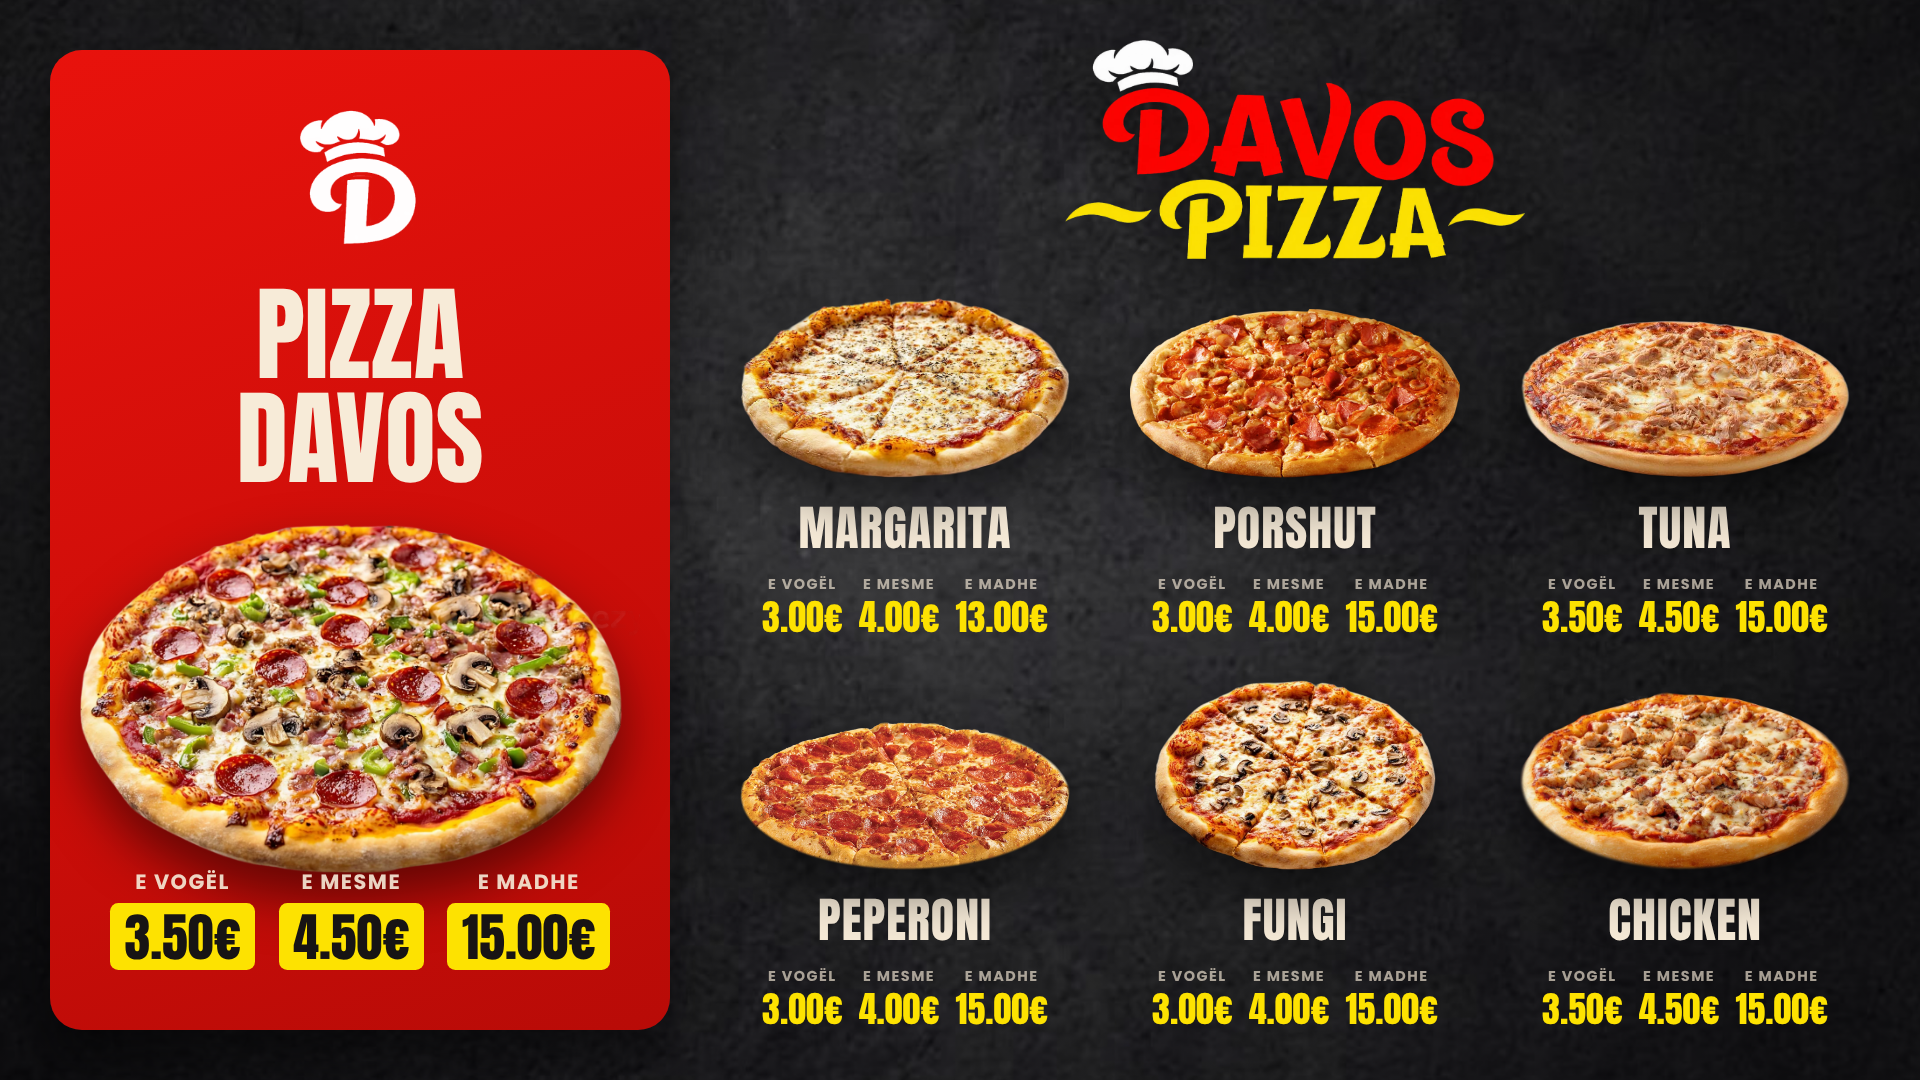
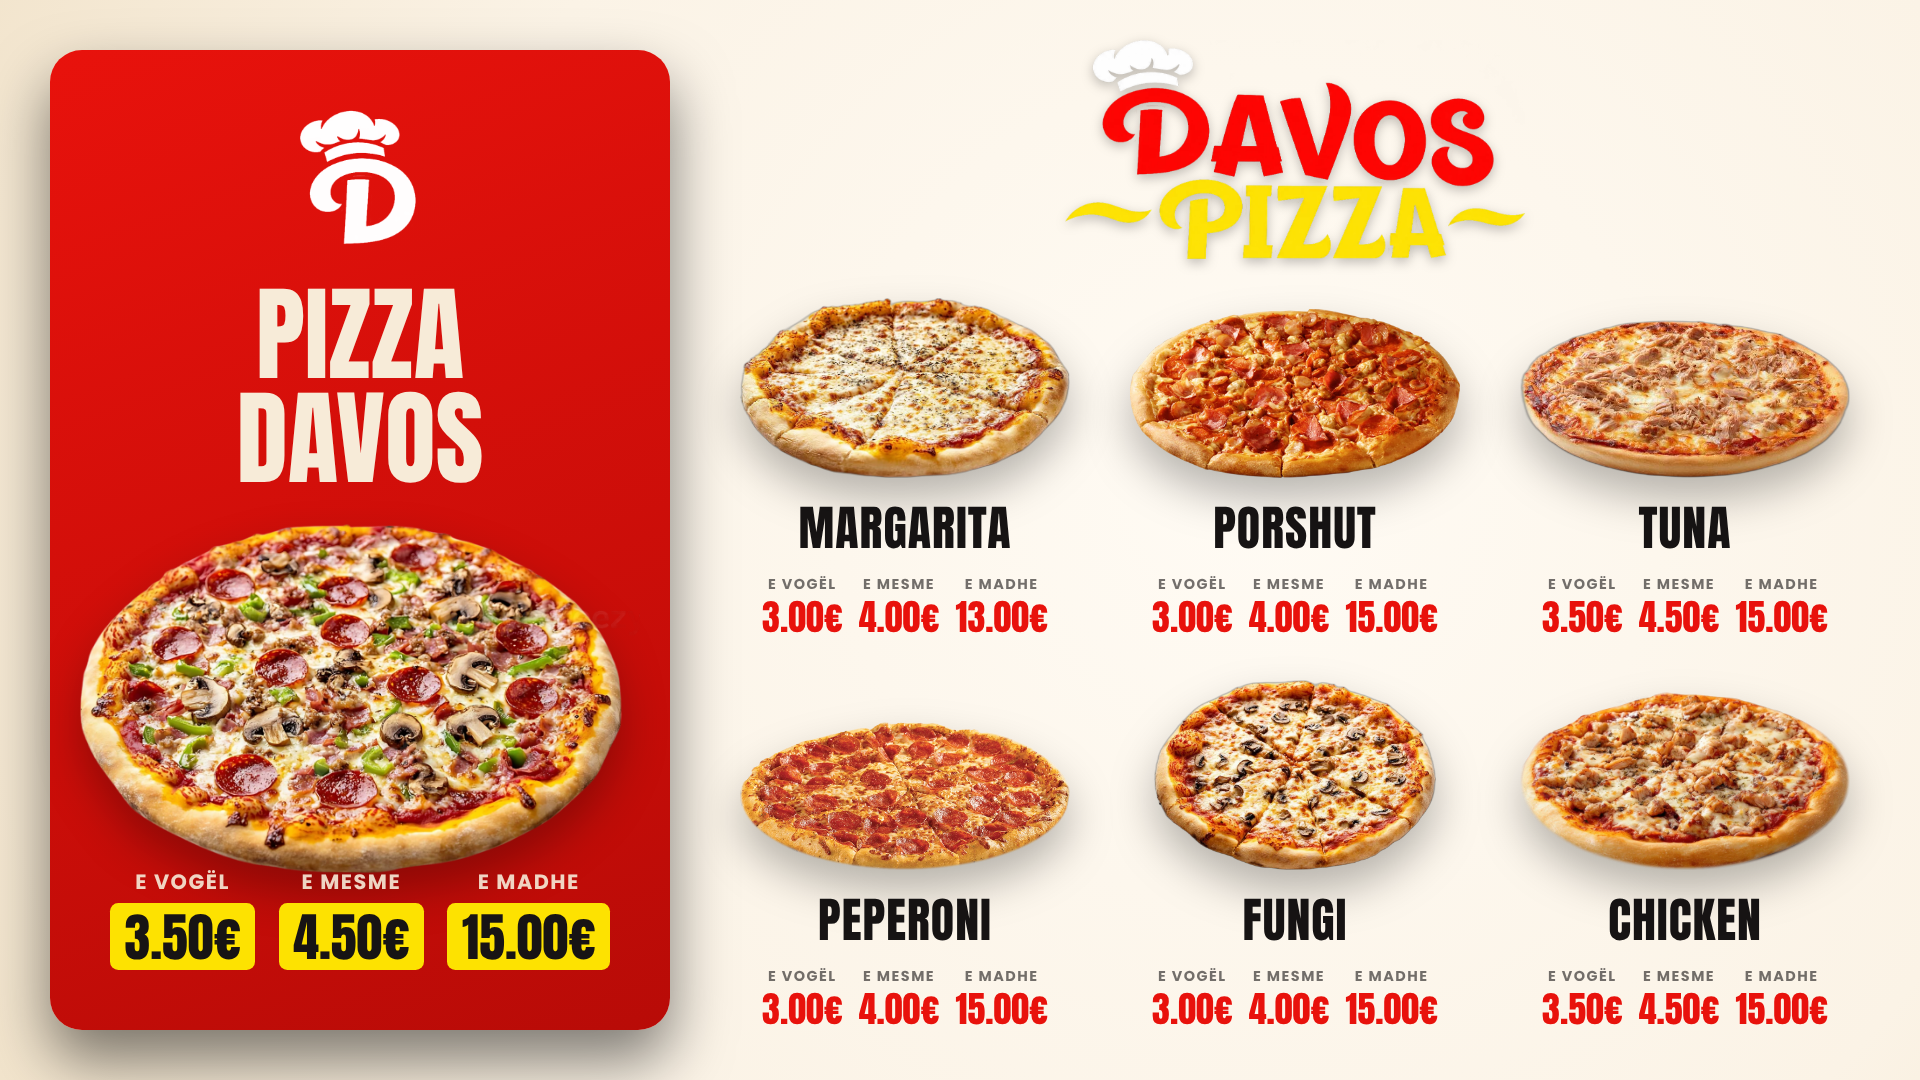
Pizza menu: cream background
Claude-Session: https://claude.ai/code/session_01Xb7jPxrPq6UpPr8fj4vFP7

diff --git a/videos/davos-burgers/src/PizzaMenu.tsx b/videos/davos-burgers/src/PizzaMenu.tsx
@@ -1,10 +1,11 @@
 import React from "react";
 import { AbsoluteFill, Img, staticFile } from "remotion";
 import { COLORS, CURRENCY, PIZZAS, PizzaId, SIZE_LABELS } from "./config";
-import { anton, poppins, WallBg } from "./lib";
+import { anton, poppins } from "./lib";
 
 const pizzaSrc = (id: PizzaId) => staticFile(`pizza-${id}.png`);
-const shadow = "drop-shadow(0 26px 26px rgba(0,0,0,0.5))";
+const shadow = "drop-shadow(0 22px 22px rgba(0,0,0,0.28))";
+const CREAM_BG = "#FBF3E6";
 
 const PriceRow: React.FC<{ prices: string[]; size: number; onRed?: boolean }> = ({ prices, size, onRed }) => (
   <div style={{ display: "flex", justifyContent: "center", gap: size * 0.45 }}>
@@ -16,8 +17,8 @@ const PriceRow: React.FC<{ prices: string[]; size: number; onRed?: boolean }> = 
             fontWeight: 700,
             fontSize: size * 0.4,
             letterSpacing: 1.5,
-            color: COLORS.cream,
-            opacity: onRed ? 0.9 : 0.65,
+            color: onRed ? COLORS.cream : COLORS.dark,
+            opacity: onRed ? 0.9 : 0.6,
             marginBottom: size * 0.12,
           }}
         >
@@ -28,7 +29,7 @@ const PriceRow: React.FC<{ prices: string[]; size: number; onRed?: boolean }> = 
             fontFamily: anton,
             fontSize: size,
             lineHeight: 1,
-            color: onRed ? COLORS.dark : COLORS.yellow,
+            color: onRed ? COLORS.dark : COLORS.red,
             background: onRed ? COLORS.yellow : "transparent",
             padding: onRed ? `${size * 0.14}px ${size * 0.28}px` : 0,
             borderRadius: size * 0.16,
@@ -45,8 +46,7 @@ const PriceRow: React.FC<{ prices: string[]; size: number; onRed?: boolean }> = 
 export const PizzaMenu: React.FC = () => {
   const [house, ...rest] = PIZZAS;
   return (
-    <AbsoluteFill style={{ background: COLORS.dark }}>
-      <WallBg />
+    <AbsoluteFill style={{ background: `radial-gradient(circle at 65% 45%, #FFFBF4, ${CREAM_BG} 60%, #F2E4CC)` }}>
       {/* House pizza card */}
       <div
         style={{
@@ -76,7 +76,7 @@ export const PizzaMenu: React.FC = () => {
       </div>
 
       {/* Logo */}
-      <Img src={staticFile("logo.png")} style={{ position: "absolute", left: 1295 - 230, top: 40, width: 460, filter: shadow }} />
+      <Img src={staticFile("logo.png")} style={{ position: "absolute", left: 1295 - 230, top: 40, width: 460, filter: "drop-shadow(0 4px 6px rgba(0,0,0,0.25))" }} />
 
       {/* Grid of the other 6 pizzas */}
       {rest.map((p, i) => {
@@ -89,7 +89,7 @@ export const PizzaMenu: React.FC = () => {
             <div style={{ height: 190, display: "flex", alignItems: "flex-end", justifyContent: "center" }}>
               <Img src={pizzaSrc(p.id)} style={{ maxWidth: 330, maxHeight: 190, filter: shadow }} />
             </div>
-            <div style={{ fontFamily: anton, fontSize: 48, color: COLORS.cream, marginTop: 14, marginBottom: 10, letterSpacing: 1 }}>
+            <div style={{ fontFamily: anton, fontSize: 48, color: COLORS.dark, marginTop: 14, marginBottom: 10, letterSpacing: 1 }}>
               {p.name}
             </div>
             <PriceRow prices={p.prices} size={36} />
